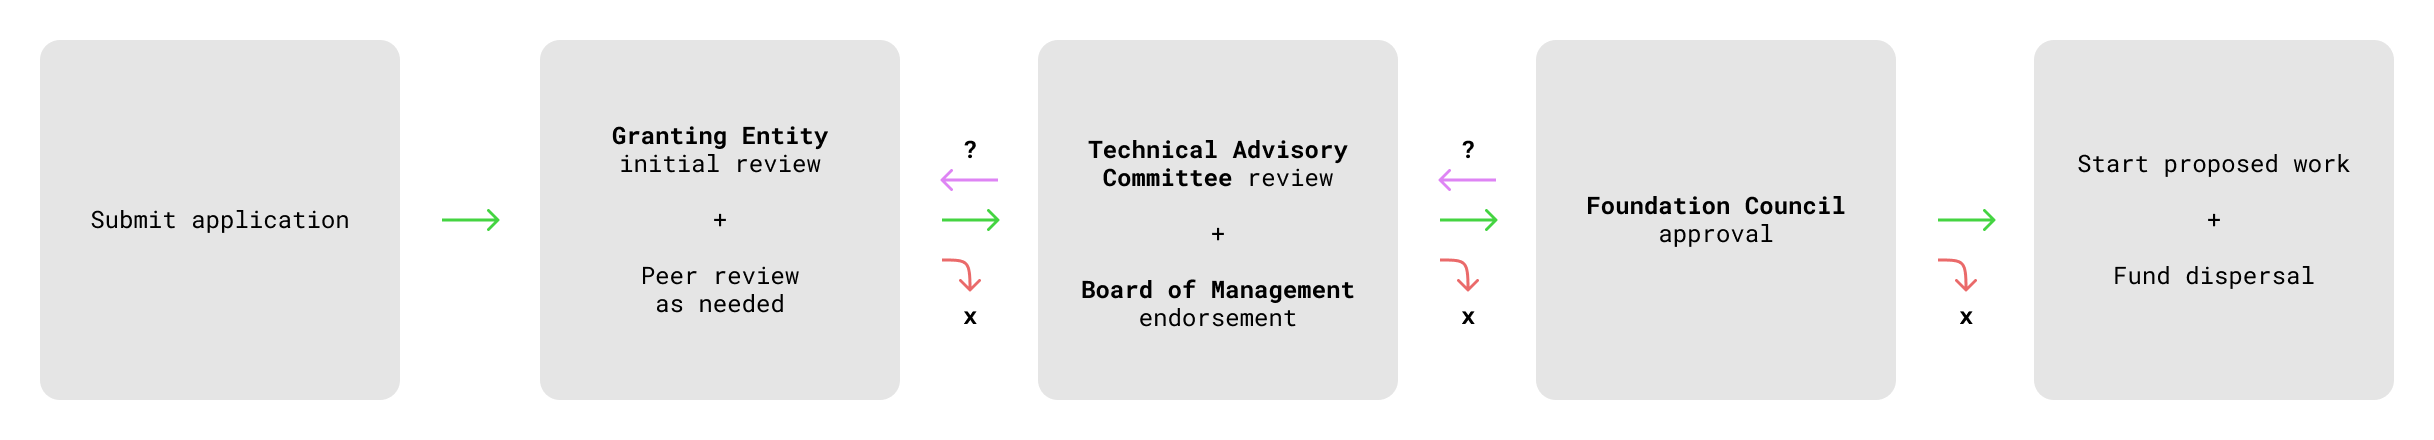
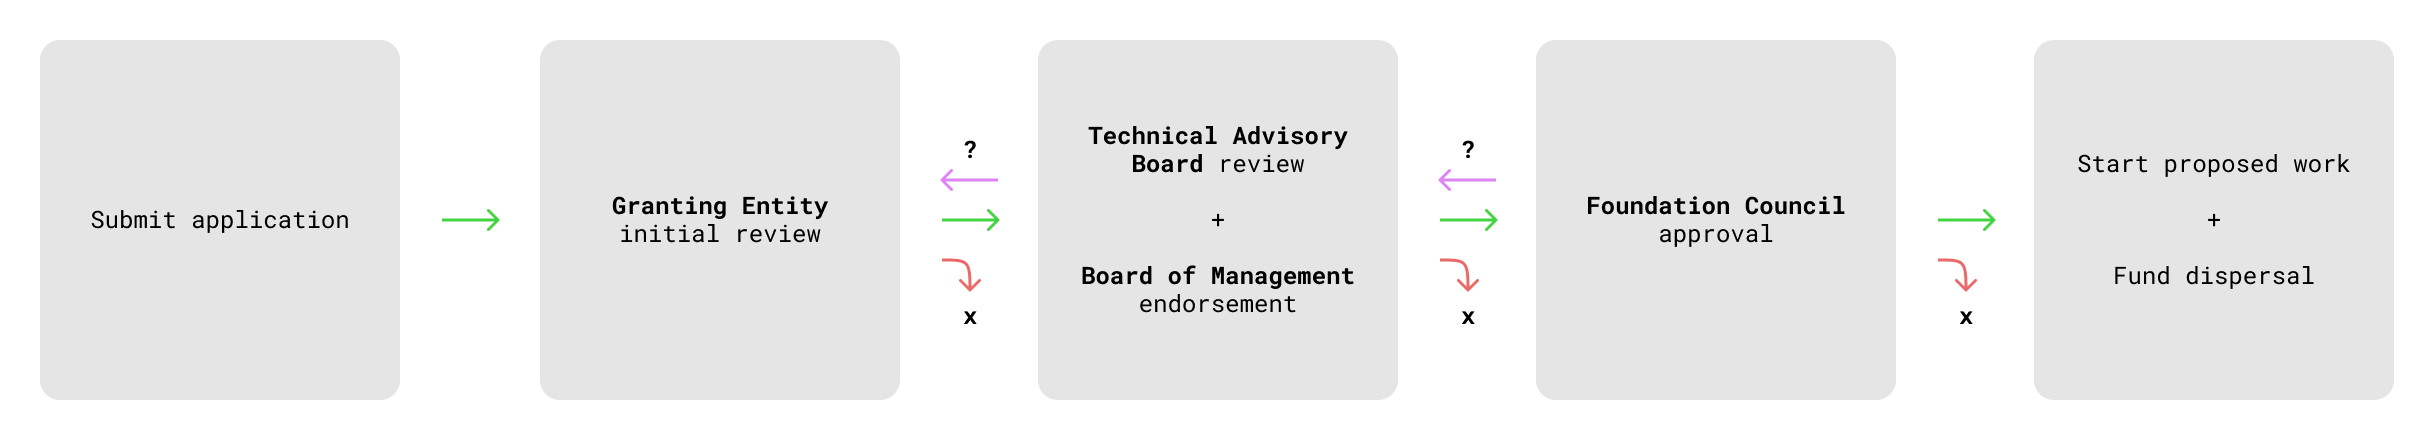
tac -> tab

diff --git a/review_process.md b/review_process.md
@@ -33,20 +33,20 @@ the proposed scope, timeline, and budget as needed. Together they
 will draft a prospective **Financing Agreement**, which will used as 
 the basis for subsequent evaluation.
 
-## Board of Management & Technical Advisory Committee
+## Board of Management & Technical Advisory Board
 
 The draft Financing Agreement, together with Granting Entity reviews
 and the original application, are delivered to the **Board of
 Management**, a supervisory body employed by the Interchain Foundation.
 
 The Board of Management will administer the assembly of a **Technical
-Advisory Committee**, composed of domain experts with a proven record
+Advisory Board**, composed of domain experts with a proven record
 of community contribution. This committee will provide feedback
 on each proposal's technical soundness and benefit to the wider
 ecosystem.
 
 The Board of Management will then incorporate feedback from the 
-Technical Advisory Committee with all previous materials to create
+Technical Advisory Board with all previous materials to create
 a final package which will be unanimously endorsed by the Board of
 Managment or otherwise returned to Stewards with revising comments.
 

diff --git a/README.md b/README.md
@@ -36,7 +36,7 @@ made a determination.
 
 ## Review Process
 
-All applications are reviewed by the Interchain Foundation as well by external parties within the various **Granting Entities** and the **Technical Advisory Committee**. Throughout the process additional information may be requested. Find details about the review process [here](./review_process.md).
+All applications are reviewed by the Interchain Foundation as well by external parties within the various **Granting Entities** and the **Technical Advisory Board**. Throughout the process additional information may be requested. Find details about the review process [here](./review_process.md).
 
 We often work with applicants to revise their proposed scope to 
 ensure success and better meet the needs of the ecosystem.
